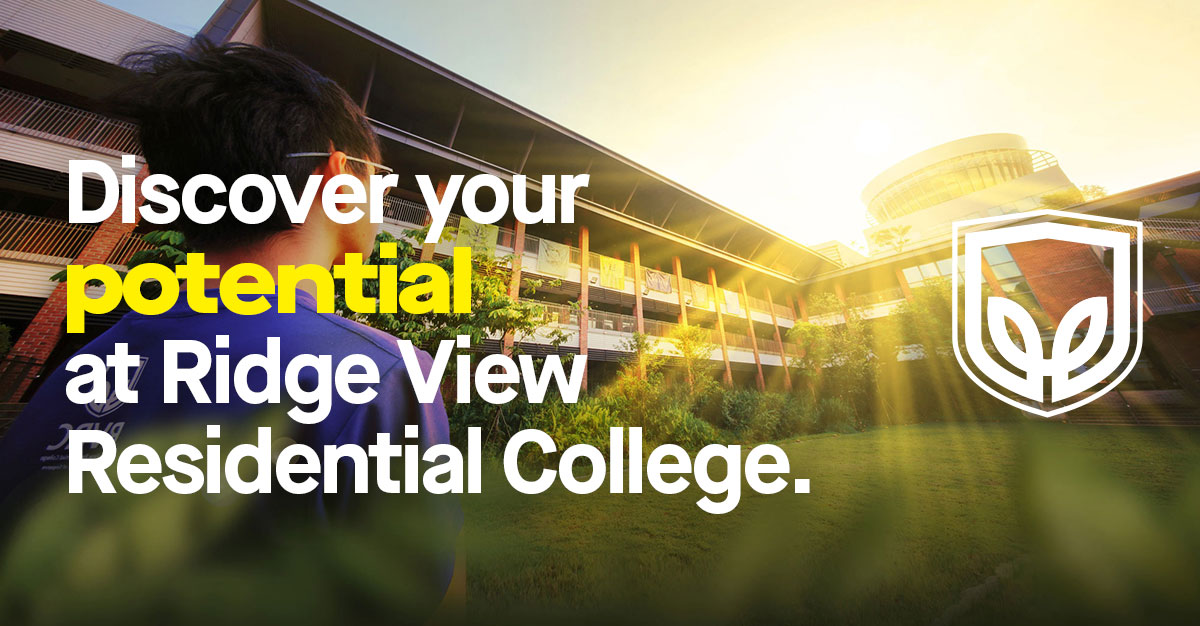
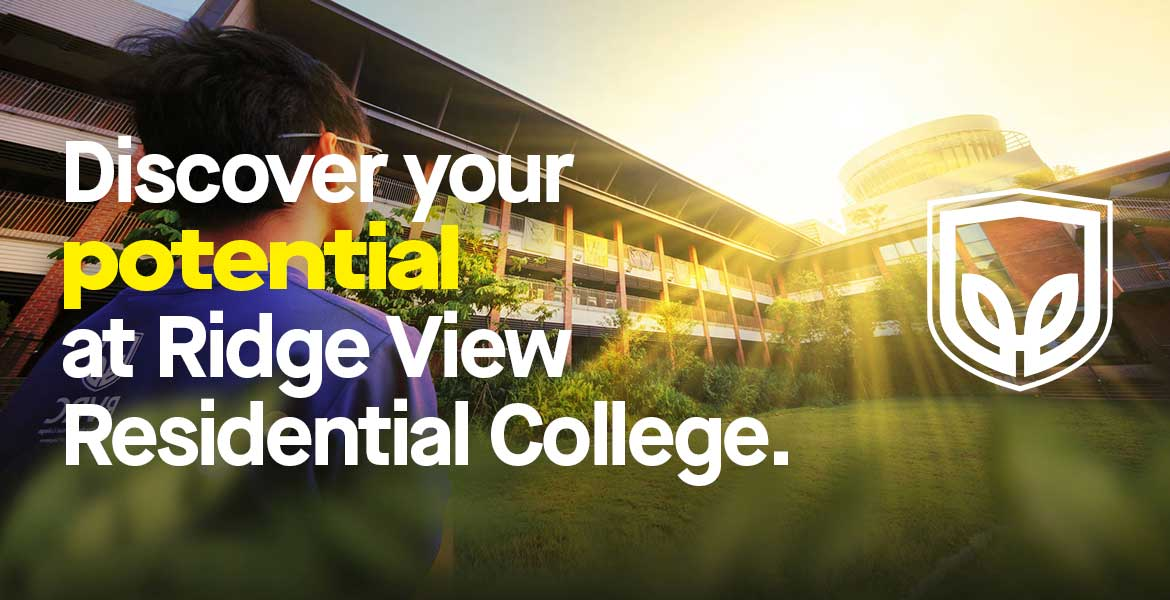
dev: test smaller article.jpg

diff --git a/public/index.html b/public/index.html
@@ -5,11 +5,11 @@
     <meta http-equiv="X-UA-Compatible" content="IE=edge">
     <meta name="viewport" content="width=device-width,initial-scale=1.0">
     <meta name="description" content="Ridge View Residential College is a flagship residential college at NUS. It is the largest, housing diverse illustrious students, with a 2-year experiential learning residency programme designed to cultivate students' holistic development to embrace life in and beyond university.">
-    <meta property="og:site_name" content="Discover your potential at Ridge View Residential College">
+    <meta property="og:site_name" content="Discover your potential at RVRC">
     <meta property="og:site" content="https://whyrvrc.sg">
     <meta property="og:locale" content="en_sg">
     <meta property="og:type" content="website">
-    <meta property="og:title" content="Discover your potential at Ridge View Residential College">
+    <meta property="og:title" content="Discover your potential at RVRC">
     <meta property="og:url" content="https://whyrvrc.sg">
     <meta property="og:image" content="https://whyrvrc.sg/article.jpg">
     <meta property="og:description" content="Ridge View Residential College is a flagship residential college at NUS. It is the largest, housing diverse illustrious students, with a 2-year experiential learning residency programme designed to cultivate students' holistic development to embrace life in and beyond university.">
